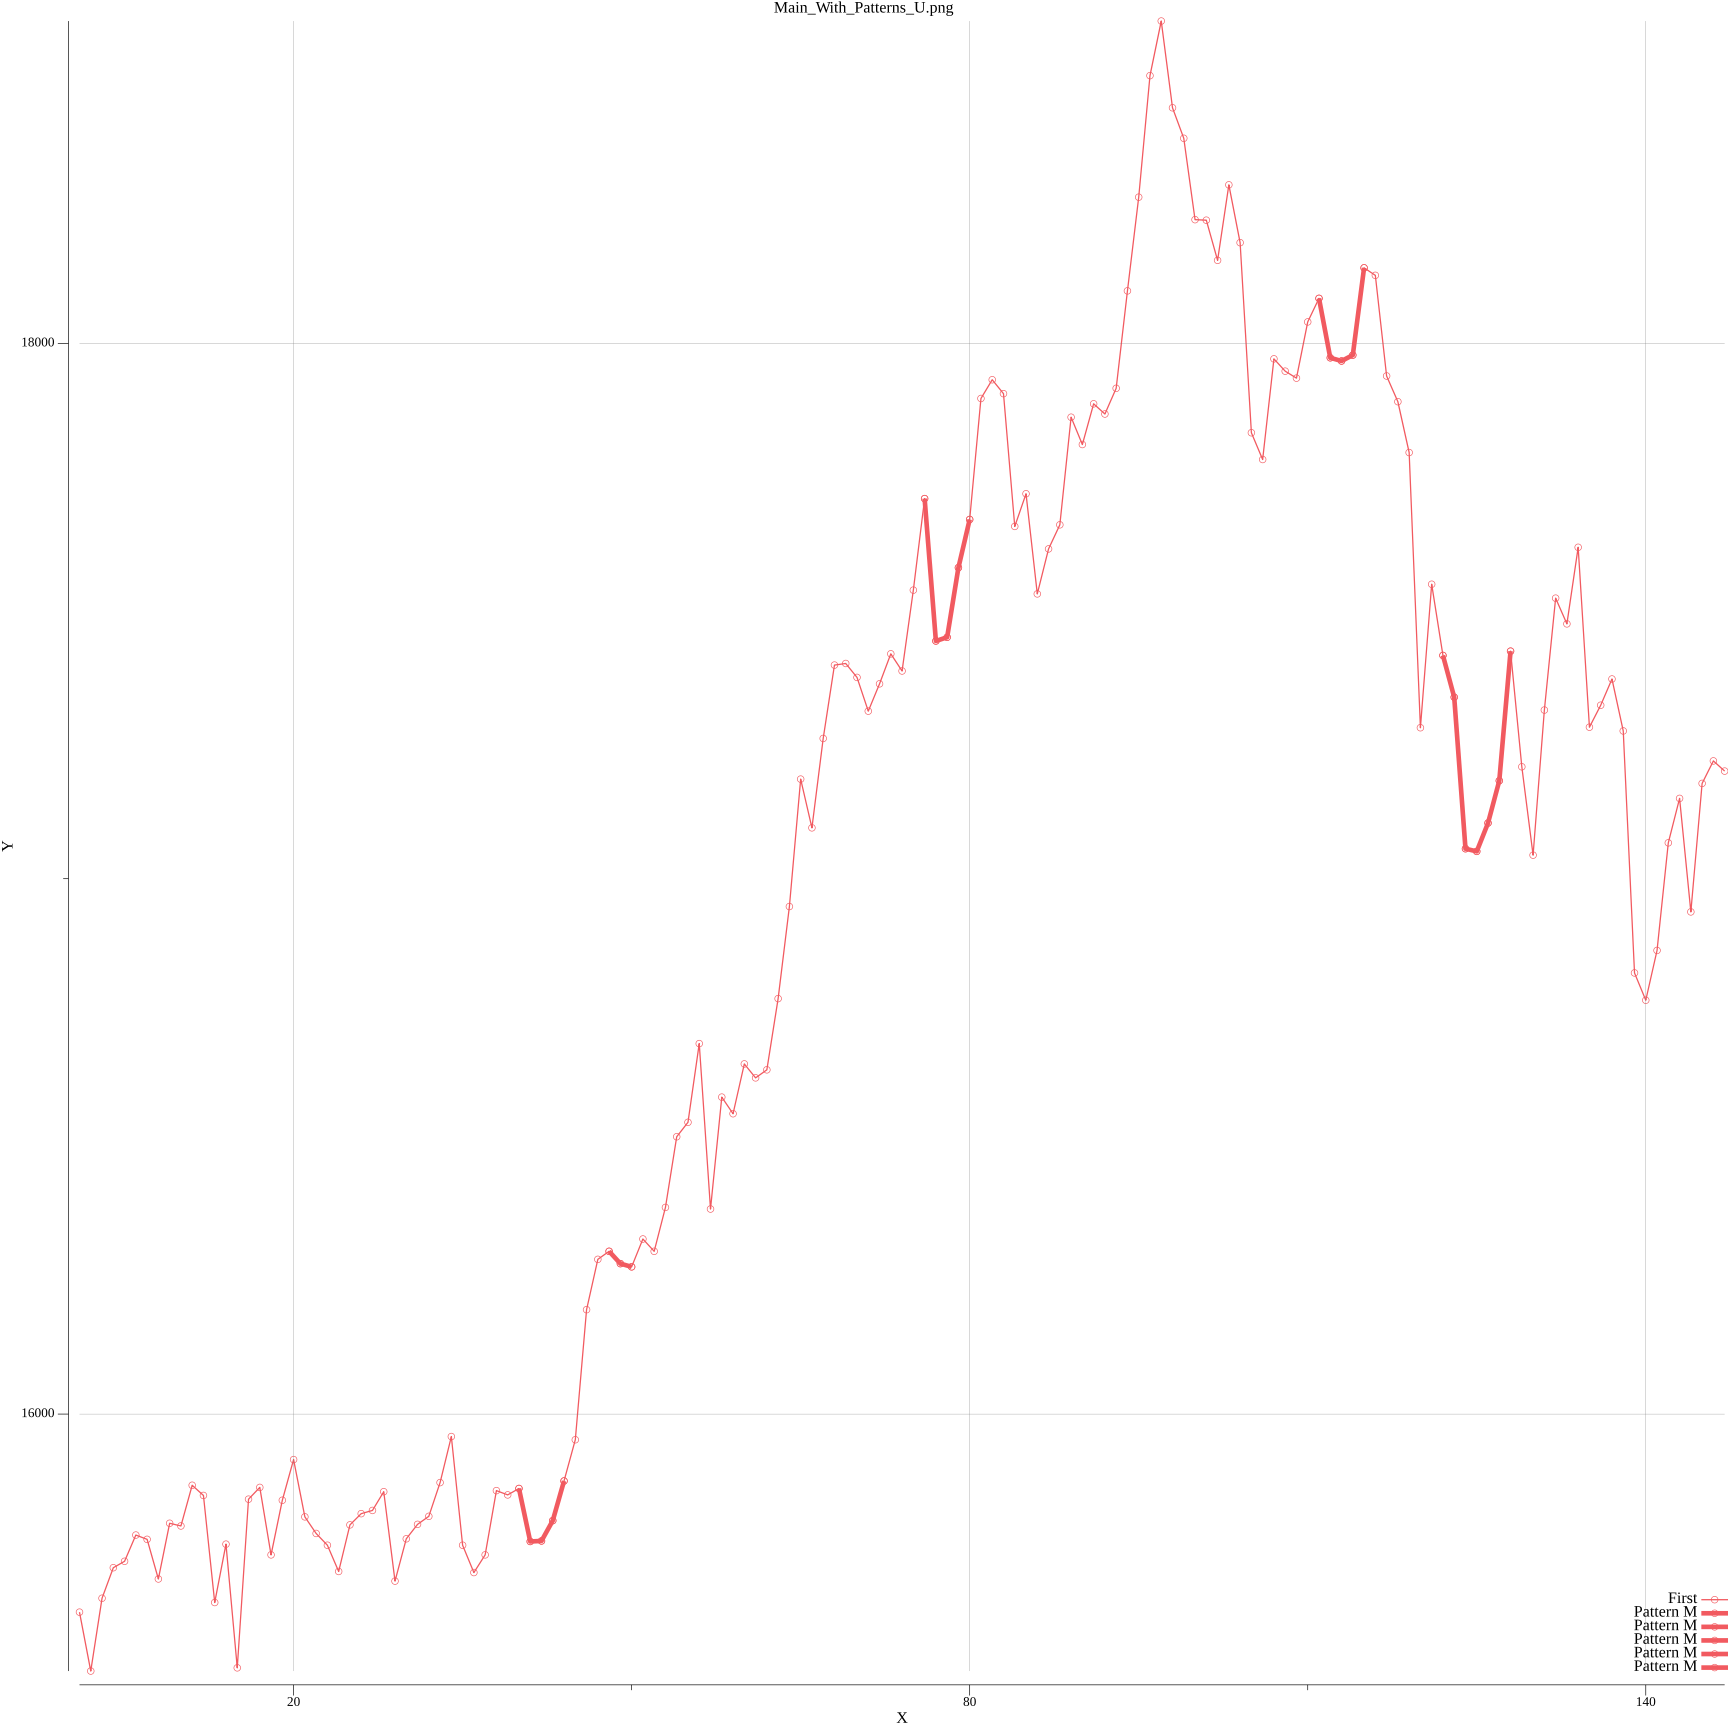
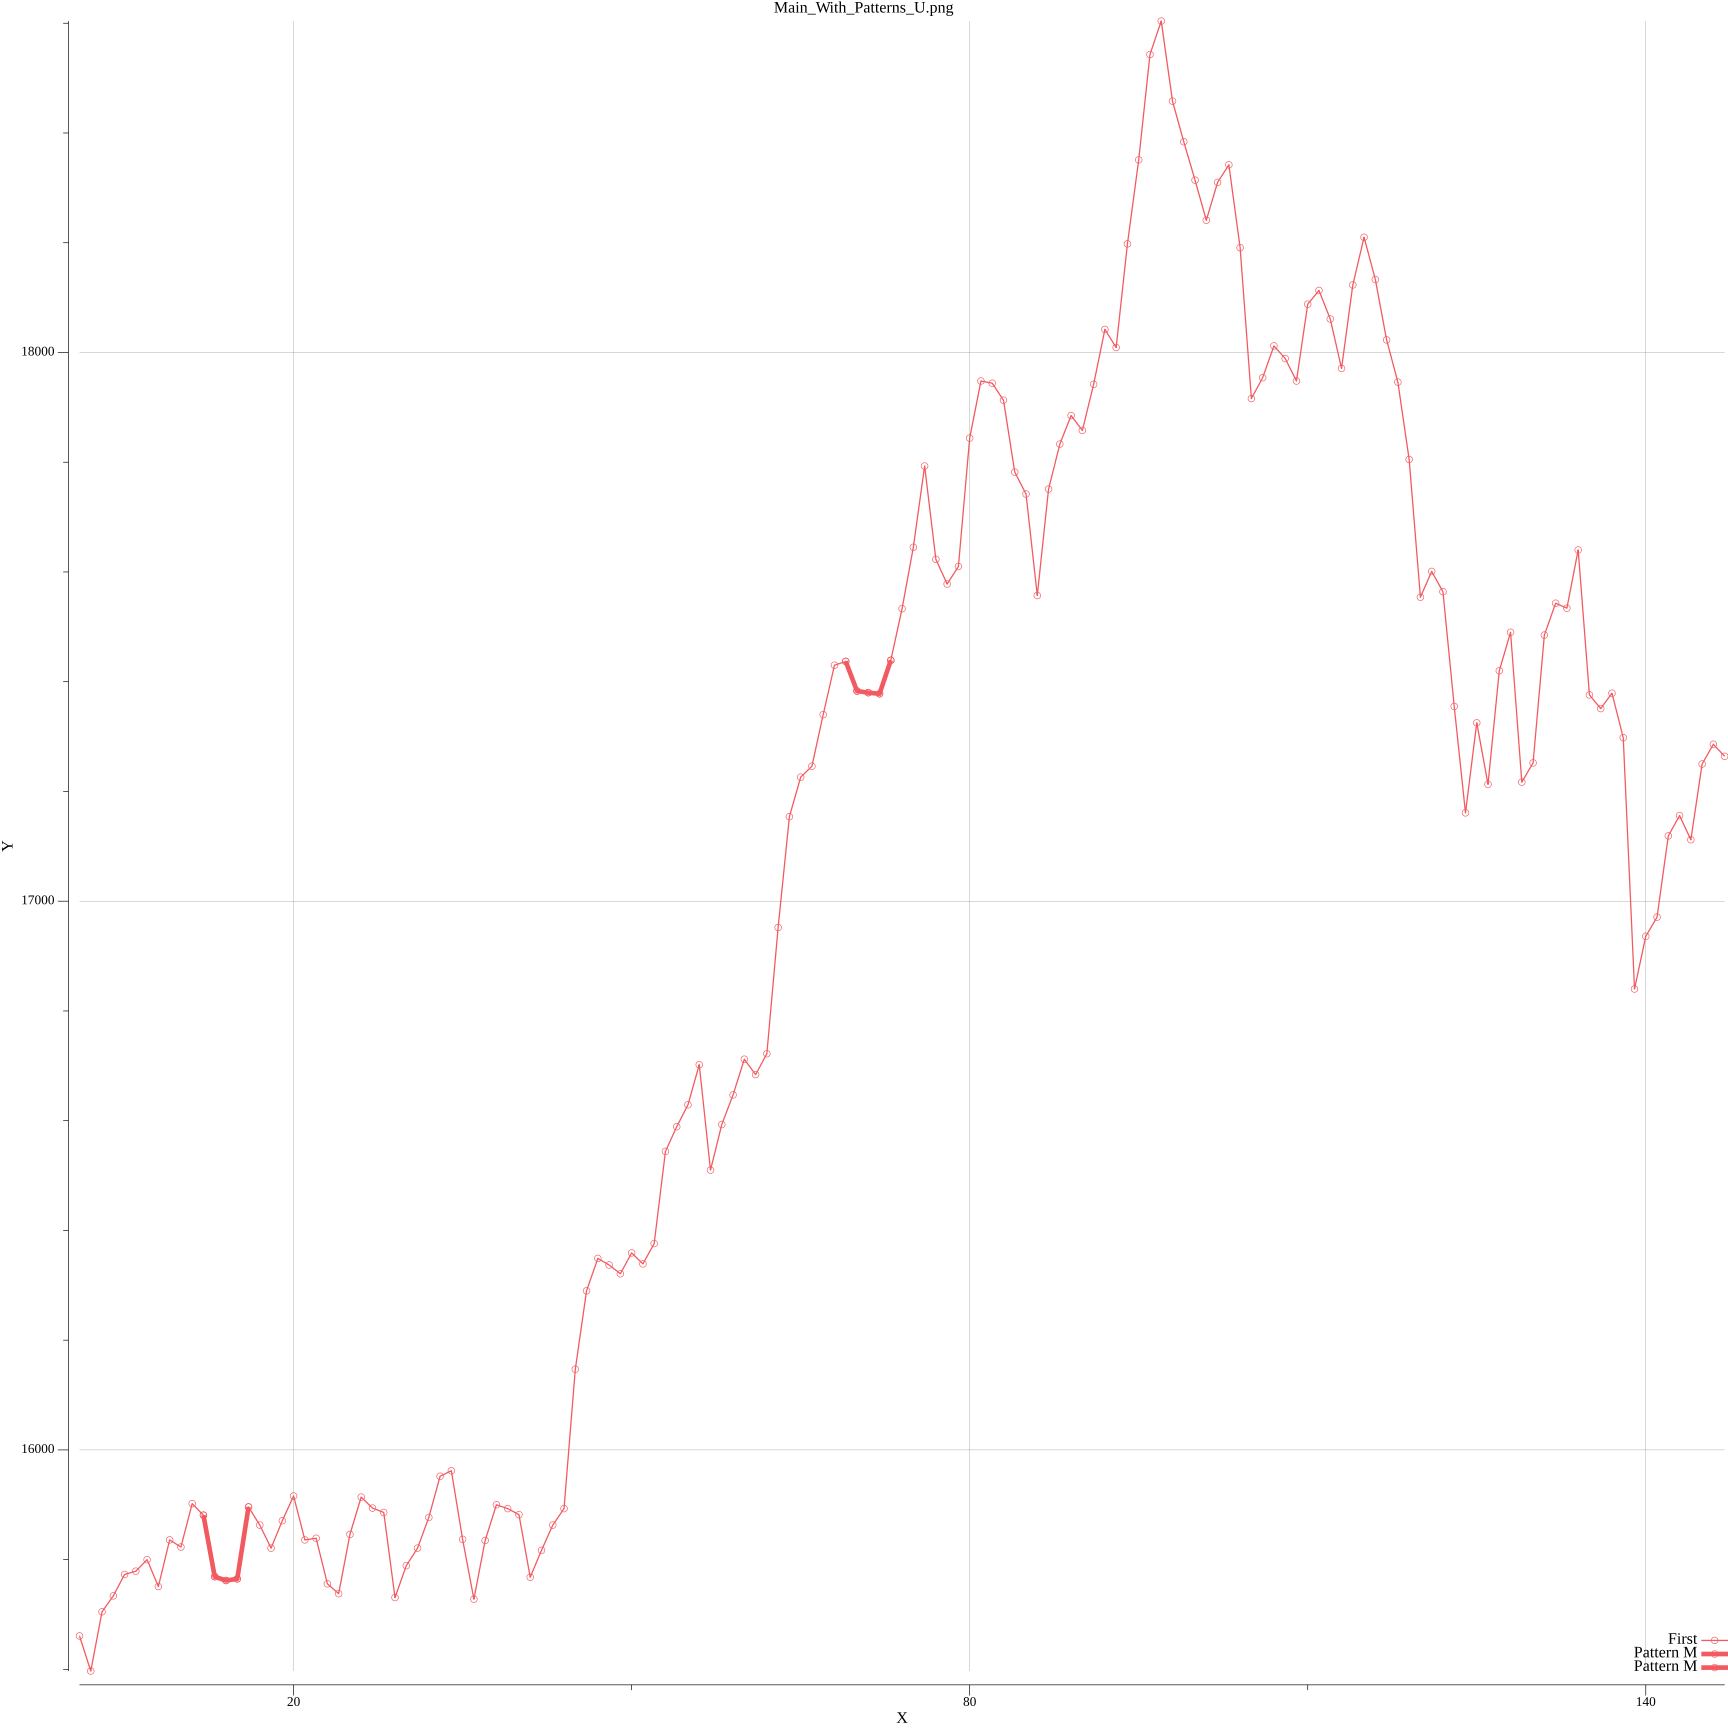
jfgksghfjd!!

diff --git a/Semicircle/main.go b/Semicircle/main.go
@@ -14,14 +14,14 @@ import (
 	"gonum.org/v1/plot/vg"
 )
 
-type Letter_inverted_semicircle struct {
+type Letter_semicircle struct {
 	Date_struct []pattern_up.Date
 }
 
-func (l *Letter_inverted_semicircle) PatternU() ([]int, []int, int, bool) {
+func (l *Letter_semicircle) PatternU() ([]int, []int, int, bool) {
 	peaks := peaks(l.Date_struct)
 	troughs := troughs(l.Date_struct)
-
+	fmt.Println("Peaks:", peaks)
 	var All_trends_string []string
 	var mixed_unsorted []int
 	for i := range peaks {
@@ -49,8 +49,8 @@ func (l *Letter_inverted_semicircle) PatternU() ([]int, []int, int, bool) {
 	var bol bool //just to check if the pattern is semicircle or not,this is boolean that will tell us that.
 
 	for i := range All_trends_string {
-		if All_trends_string[i] == "Downward" && i != len(All_trends_string)-1 {
-			if All_trends_string[i+1] == "Upward" && i+1 != len(All_trends_string)-1 { //Task:=>check here for first and last point to be in the align manner.
+		if All_trends_string[i] == "Upward" && i != len(All_trends_string)-1 {
+			if All_trends_string[i+1] == "Downward" && i+1 != len(All_trends_string)-1 { //Task:=>check here for first and last point to be in the align manner.
 				var a1 []int //end point
 				var x int
 
@@ -81,22 +81,29 @@ func (l *Letter_inverted_semicircle) PatternU() ([]int, []int, int, bool) {
 				// } else
 				if Is_Valid11(l.Date_struct[All_trends_index_values[i]+1].Value, a1) {
 					start = append(start, All_trends_index_values[i]+1)
-					end = append(end, All_trends_index_values[i+2]+1) //last U
+					end = append(end, All_trends_index_values[i+2]+2) //last U
 					count++
 					bol = true
 				} else if Is_Valid11(l.Date_struct[All_trends_index_values[i]+2].Value, a1) {
 					start = append(start, All_trends_index_values[i]+2)
-					end = append(end, All_trends_index_values[i+2]+1)
+					end = append(end, All_trends_index_values[i+2]+4)
 					count++
 					bol = true
 				} else if Is_Valid11(l.Date_struct[All_trends_index_values[i]].Value, a2) {
 					start = append(start, All_trends_index_values[i])
-					end = append(end, All_trends_index_values[i]+3)
+					end = append(end, All_trends_index_values[i]+8)
+					count++
+					bol = true
+				} else if Is_Valid11(l.Date_struct[All_trends_index_values[i+1]].Value, a2) {
+					start = append(start, All_trends_index_values[i])
+					fmt.Println("here!!")
+					end = append(end, All_trends_index_values[i+1]+3) //some connection
 					count++
 					bol = true
 				} else if Is_Valid11(l.Date_struct[All_trends_index_values[i]+1].Value, a2) {
 					start = append(start, All_trends_index_values[i])
-					end = append(end, All_trends_index_values[i]+5) //some connection
+					fmt.Println("here1!!")
+					end = append(end, All_trends_index_values[i]+8) //some connection
 					count++
 					bol = true
 				}
@@ -118,8 +125,25 @@ func peaks(pts []pattern_up.Date) (a []int) {
 			continue
 		} else if pts[i-1].Value < pts[i].Value && pts[i+1].Value < pts[i].Value && pts[i-1] != pts[0] && pts[i+1] != pts[len(pts)-1] {
 
-			b = append(b, i)
-			continue
+			var a1 []int
+			var x int
+			for i1 := 0; i1 < 12; i1++ {
+				x = pts[i].Value + i1
+				a1 = append(a1, x)
+			}
+			for i2 := 0; i2 < 12; i2++ {
+				x = pts[i].Value - i2
+				a1 = append(a1, x)
+			}
+			if Is_Valid1(pts[i-1].Value, a1) && pts[i-1].Value > pts[i-2].Value { //pts[i-1].Value == pts[i].Value || pts[i+1].Value == pts[i].Value
+				b = append(b, i)
+				continue
+			}
+			if Is_Valid1(pts[i+1].Value, a1) && pts[i+1].Value > pts[i+2].Value { //pts[i-1].Value == pts[i].Value || pts[i+1].Value == pts[i].Value
+				b = append(b, i)
+				continue
+
+			}
 
 		} else {
 			continue
@@ -260,37 +284,20 @@ func troughs(pts []pattern_up.Date) (a []int) {
 		} else if pts[i].Value == pts[len(pts)-1].Value {
 			continue
 		} else if pts[i-1].Value > pts[i].Value && pts[i+1].Value > pts[i].Value && pts[i-1] != pts[0] && pts[i+1] != pts[len(pts)-1] {
-			var a1 []int
-			var x int
-			for i1 := 0; i1 < 12; i1++ {
-				x = pts[i].Value + i1
-				a1 = append(a1, x)
-			}
-			for i2 := 0; i2 < 12; i2++ {
-				x = pts[i].Value - i2
-				a1 = append(a1, x)
-			}
-			if Is_Valid1(pts[i-1].Value, a1) && pts[i-1].Value < pts[i-2].Value { //pts[i-1].Value == pts[i].Value || pts[i+1].Value == pts[i].Value
-				b = append(b, i)
-				continue
-			}
-			if Is_Valid1(pts[i+1].Value, a1) && pts[i+1].Value < pts[i+2].Value { //pts[i-1].Value == pts[i].Value || pts[i+1].Value == pts[i].Value
-				b = append(b, i)
-				continue
 
-			}
-
-		} else {
+			b = append(b, i)
 			continue
+
 		}
+
 	}
 	return b
 
 }
 func main() {
-	Date := Generic.Genericcsv("/home/tatva.j@ah.zymrinc.com/Desktop/go-graph/Generic/date4.csv")
+	Date := Generic.Genericcsv("/home/tatva.j@ah.zymrinc.com/Desktop/go-graph/Generic/data2.csv")
 	Plot_Original(Date, "Main_Without_Patterns.png")
-	P := &Letter_inverted_semicircle{Date_struct: Date}
+	P := &Letter_semicircle{Date_struct: Date}
 	start, end, count, bol := Find(P)
 	fmt.Println(start, end, count, bol)
 	if bol {

diff --git a/Semicircle/Semicircle.go b/Semicircle/Semicircle.go
@@ -1,4 +1,4 @@
-package Semicircle
+package main
 
 import (
 	"fmt"
